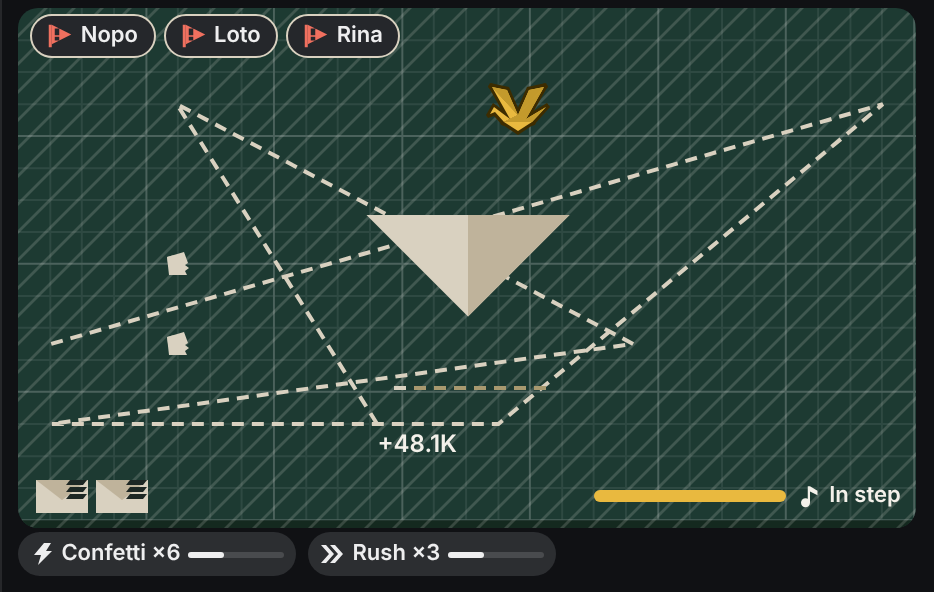
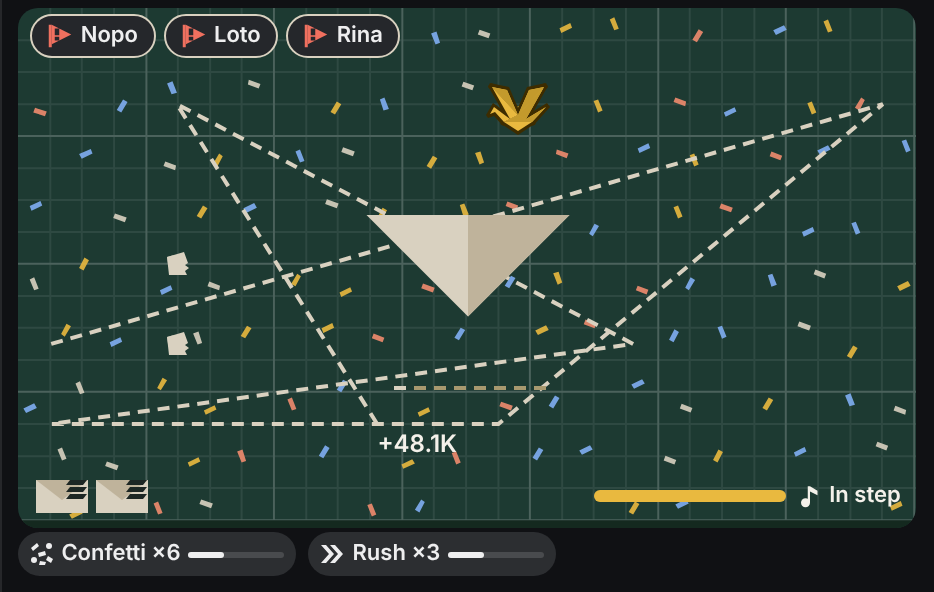
Verification round 6: phantom helpers, held notifications, crane hold, unreadable backups, waiting agents away, boat lane, Files min 160, Confetti visuals
- r6-01: a pane agent with no live terminals() entry is left out (no phantom addr#0 helper); DESIGN §5.1 states the rule
- r6-02: notifications are held, uncounted, while the window is hidden or inactive and sent once it is active again (DESIGN §11.2, RECIPE)
- r6-03: cranes() is held at MAX_SAFE_INTEGER and never loops on huge, infinite or NaN lifetimes
- r6-04: an unreadable backup is never rotated over; it is probed, kept aside as save.damaged-N.json once readable, and the fresh-start notice and Details row stay true
- r6-05: agents waiting for input earn nothing while away or as Elsewhere helpers; inv. 3 test follows the formula
- r6-06: the Paper Boat glides in its own lane, painted under the play pieces; the short mat dips under the band with eased top
- r6-07: Files' min is 160 (terminals 294 px at 1100x700 zoom 1.5 with Files); the chip offers Hide at the rail; Fold, Hide and Not now all answer the chip so it never chains; DESIGN §2.2-2.5, ARCHITECTURE B15, RECIPE and the commands.js fallback updated
- r6-08: the ribbon blocks lend unused room before the narrow hint is dropped (DESIGN §3.10)
- r6-09: Confetti draws paper flecks and a confetti seal; art generator, panel test, confetti.png hero shot and its captions updated
- r6-11: the win98 Files panel matches herdr (no change)
- r6-12/r6-13: the sim flags night-pot crossings; BALANCE.md refreshed from a fresh run
- r6-14: the crane-odds test checks the 40/35/25 split per seed
[…]

Changed region(s): [[0.031, 0.0304, 0.9936, 0.8818], [0.031, 0.9122, 0.0621, 0.973], [0.0621, 0.8514, 0.0931, 0.8818]]

diff --git a/mods/creaseworks/glue/views.js b/mods/creaseworks/glue/views.js
@@ -546,9 +546,9 @@ add("ribbon-window", { roster: { needs: 2, finished: 1, working: 5, resting: 4, 
 
 // Panel widths the shipped layout gives (ARCHITECTURE B15; DESIGN §2.4 states):
 // narrow = 1100 x 700 as shipped (226, Narrow), narrow-files = 1100 x 700 with
-// Files open (146: drawn as the rail, below 200), wide = Wide at 440, wide-2560 = 2560 x 1440 (636: no max).
+// Files open (152 since r6-07: drawn as the rail, below 200), wide = Wide at 440, wide-2560 = 2560 x 1440 (636: no max).
 add("narrow", { roster: { needs: 1, finished: 1, working: 6, resting: 4 }, size: { width: 226, height: 584 } }, async (v) => midGame(v));
-add("narrow-files", { roster: { needs: 1, finished: 1, working: 6, resting: 4 }, size: { width: 146, height: 584 } }, async (v) => midGame(v));
+add("narrow-files", { roster: { needs: 1, finished: 1, working: 6, resting: 4 }, size: { width: 152, height: 584 } }, async (v) => midGame(v));
 add("wide", { roster: { needs: 1, finished: 1, working: 6, resting: 4 }, size: { width: 440, height: 784 } }, async (v) => midGame(v));
 add("wide-2560", { roster: { needs: 2, finished: 2, working: 18, resting: 8 }, size: { width: 636, height: 1324 } }, async (v) => midGame(v));
 add("short", { roster: STD, size: { width: 320, height: 584 } }, async (v, tools) => {

diff --git a/mods/creaseworks/engine/prestige.js b/mods/creaseworks/engine/prestige.js
@@ -12,7 +12,7 @@ import { makeMap, newSpawn } from "./state.js";
  * and L = Lw (6e9) gives exactly 1,000.
  *
  * Review r6-03: the count is held at Number.MAX_SAFE_INTEGER (reached near
- * L 1.3e42), where c + 1 would equal c and the correction could never end,
+ * L 1.46e42), where c + 1 would equal c and the correction could never end,
  * and Infinity or NaN never loop either. The estimate is off by float
  * rounding only, so each correction is capped at CRANE_STEPS steps; every
  * call is a fixed handful of pow calls whatever L is (render 50 ms).

diff --git a/docs/screenshots/CAPTIONS.md b/docs/screenshots/CAPTIONS.md
@@ -11,7 +11,7 @@ Made by `node --import ./tools/node/register.mjs tools/shots/hero.mjs [--only na
 - hero-dark.png — Creaseworks inside herdr (graphite). In the active tab, a Claude Code agent needs you (it is waiting to edit away.js), a zsh shell has lint and 142 tests passing, and a Codex agent has finished the save-codec tests. On the right, you have just folded the paper: the "+2,179" rises beside it. A chain of seven waits with its next node ringed, and a gilded crane glides in. The Flock of 34 shows all four groups, and the ribbon runs along the bottom. Alt: "A dark herdr window: a sidebar of four spaces and a list of agents, three terminal panes (Claude Code asking to edit away.js, a zsh shell with lint and tests passing, Codex done with save codec tests), and the Creaseworks panel with a green cutting mat (numbered chain nodes, a gold crane, a half-folded paper crane with +2,179 beside it, four envelopes in the tray) above helper tiles grouped as Needs you 3, Finished 2, Working 15 and Resting 14, with a ribbon of 34 status marks under the terminals."
 - hero-light.png — The same moment in herdr's light Paper theme, used only as the light-mode source of the hero `<picture>`. Alt: "The same herdr window in a light theme: three terminals, the green Creaseworks mat with a +2,179 beside the folded paper, and the Flock of 34 in four groups."
 - flock.png — The Flock with 34 helpers, at a glance. Red dashed tiles need you. Blue checks have finished, each with an envelope waiting to be opened. Spinners are working and moons are resting. At this herd size the tiles drop their names, so each one shows its origami animal only. Alt: "The Flock tab with 34 unlabelled origami helper tiles in four groups: 3 needing you with red dashed outlines, 2 finished with blue checks and envelopes, 15 working with spinners and 14 resting with moons."
-- confetti.png — Confetti. You opened a Rush envelope and then a Confetti envelope from the tray (two envelopes are left), and you are clicking fast enough to be In step. Confetti hatches the mat and keeps dropping chains. You have just clicked the last node of one: its crease line runs across the mat, and its "+48.1K" sits where that last node was. A gilded crane glides in and two scraps wait to be picked up. Confetti ×6 and Rush ×3 run below the mat. Alt: "A hatched mat with dashed crease lines zigzagging across it, one ending at a +48.1K pop, a gold crane, two paper scraps, a folded paper triangle, two envelopes in the tray, the streak meter full and reading In step, and Confetti ×6 and Rush ×3 timers below."
+- confetti.png — Confetti. You opened a Rush envelope and then a Confetti envelope from the tray (two envelopes are left), and you are clicking fast enough to be In step. Confetti scatters paper flecks over the mat and keeps dropping chains. You have just clicked the last node of one: its crease line runs across the mat, and its "+48.1K" sits where that last node was. A gilded crane glides in and two scraps wait to be picked up. Confetti ×6 and Rush ×3 run below the mat. Alt: "A mat scattered with confetti flecks, with dashed crease lines zigzagging across it, one ending at a +48.1K pop, a gold crane, two paper scraps, a folded paper triangle, two envelopes in the tray, the streak meter full and reading In step, and Confetti ×6 and Rush ×3 timers below."
 - shop.png — The Shop's Works. Workshops are owned in the dozens with their rates, and the next ones are within reach. The Washi Vat is still out of reach ("in 29m 33s"). The crop ends there: the tiers after it stay hidden until you own the one above. Alt: "The Shop tab with segments Works, Tools, Folk, Charms, Curios and Auto, a ×1 / ×10 / Max buy switch, and Paper Stack ×40, Bone Folder ×30, Scissor Stand ×22, Glue Pot ×14 and Fold Bench ×6 with lit buy buttons, then a greyed Washi Vat at 5.90M."
 - string.png — String the Thousand, later in the same game: the String holds 1,000 of 1,000 cranes and the wish is ready. Cranes keep coming past 1,000, and every hundred more adds one more Wish to this wish. That is why a "Next crane" count still shows under a full String, and why this wish is ready at +13 Wishes. The grid is the mod's own: a thousand small strung cranes, drawn alike. Alt: "The String tab: The String, 1,000 / 1,000 cranes, a dark green card filled with rows of small strung paper cranes, the lines Next crane in 33.9M folds · lifetime 49.3B and Ready: +13 Wishes, and a Make the wish (+13 Wishes) button."
 - away.png — Back after seven hours. The while-you-were-away card sums up the time away: +15.1M folds, the envelopes waiting, who needs you, who rested, the best helper and what you can now afford. The header still reads 1.33M because the card credits the folds when you click Collect. The long rows end in an ellipsis because the card is at most 304 px wide at any panel width. Alt: "A card over the panel titled While you were away, 7 h: +15.1M folds from workshops and helpers, 9 envelopes waiting, 3 helpers need you with an Open button, 19 helpers rested fully, best helper Kori the crane with 4 tasks, things you can afford, and a Collect button."

diff --git a/docs/ARCHITECTURE.md b/docs/ARCHITECTURE.md
@@ -1097,7 +1097,7 @@ wishes, another writer's observation, `failNextWrite` / `raceNextWrite` / `exter
 banners, a wall-clock step back for `clock`). Where luck or hours decide a state, setup moves the
 one engine field that decides it (spawn clock due, a storm's end time, banked folds) and lets the
 engine do the rest. Panel-width views follow the shipped layout (B15): `narrow` 226×584 (1100×700),
-`narrow-files` 146×584 (1100×700 with Files open), `wide` 440×784, `wide-2560` 636×1324 (2560×1440).
+`narrow-files` 152×584 (1100×700 with Files open), `wide` 440×784, `wide-2560` 636×1324 (2560×1440).
 Ribbon views are `ribbon-<n>-<1100|1440>`; `flock-12` (block `cw-panel`) and
 `ribbon-window` (block `cw-ribbon`) fill the whole-window shots; `windowScenario` gives the
 chrome the same 12 agents. `garlands` is 320×1160 (`GARLANDS_SIZE`): at 784 the String tab ends at
@@ -1186,7 +1186,7 @@ the Perks heading and the garland stripes it is named for were below the fold (r
   is the **Narrow** state (mat at full width, Flock dense, Shop icons only) and so is 1440×900
   with Files open; big windows are Wide with no cap (the old max was 560; 2560 gives 636). The
   terminals gain what the game gives up (1100×700: 581 instead of 488). Shots: `narrow` 226,
-  `narrow-files` 146 (152 since r6-07), `wide-2560` 636 and `window-1920x1080-*` (456) cover these widths.
+  `narrow-files` 152 (146 before r6-07), `wide-2560` 636 and `window-1920x1080-*` (456) cover these widths.
 * **Past zoom 1.5: Files is clipped, never the game (r2-15).** herdr's zoom runs 0.5–3.0 in 0.1
   steps (settings.rs), `render_node` makes every container `overflow_hidden` (src/window.rs
   ~4624) and a row never wraps, so once the mins do not fit, the row's END is cut. With Files

diff --git a/README.md b/README.md
@@ -11,7 +11,7 @@ A paper workshop on the corner of your desk, built for [herdr](https://herdr.dev
 
 | | |
 |---|---|
-| ![The Flock tab with 34 origami helper tiles in four groups: 3 needing you with red dashed outlines, 2 finished with blue checks and envelopes, 15 working with spinners and 14 resting with moons.](docs/screenshots/flock.png) | ![A hatched mat with dashed crease lines zigzagging across it, one ending at a +48.1K pop, a gold crane, two paper scraps, the streak meter reading In step, and Confetti ×6 and Rush ×3 timers.](docs/screenshots/confetti.png) |
+| ![The Flock tab with 34 origami helper tiles in four groups: 3 needing you with red dashed outlines, 2 finished with blue checks and envelopes, 15 working with spinners and 14 resting with moons.](docs/screenshots/flock.png) | ![A mat scattered with confetti flecks, with dashed crease lines zigzagging across it, one ending at a +48.1K pop, a gold crane, two paper scraps, the streak meter reading In step, and Confetti ×6 and Rush ×3 timers.](docs/screenshots/confetti.png) |
 | **Every agent is a helper.** Needs you, finished, working or resting, readable at a glance. | **Clicking stays fun.** Open a Rush and a Confetti, chain the nodes, catch the gilded crane. |
 | ![The Shop tab: Paper Stack, Bone Folder, Scissor Stand, Glue Pot and Fold Bench with buy buttons, and a greyed Washi Vat.](docs/screenshots/shop.png) | ![The String tab: 1,000 / 1,000 cranes strung on a green card and a Make the wish (+13 Wishes) button.](docs/screenshots/string.png) |
 | **Spend your folds** on workshops, tools, folk, charms, curios and automations. | **String the Thousand.** Trade 1,000 cranes for Wishes, a permanent bonus. |

diff --git a/docs/DESIGN.md b/docs/DESIGN.md
@@ -921,7 +921,10 @@ wall time, `visible`/`active`/`matShown` flags, hand-hit timestamps and the loca
   terminal whose `parent` chain reaches a pane agent within 32 hops,
   `{addr, created, status, raw, turn, parent, pane, title, paneName, space, tab}`. `agents()` and
   `terminals()` are joined by `address` (`created_ms` and `turn` come from `terminals()`; a missing
-  `created_ms` is treated as 0). Maps are `Map`s or `Object.create(null)`.
+  `created_ms` is treated as 0). A pane agent with no live `terminals()` entry is left out, and its
+  sub-agents wait with it (review r6-01): herdr builds `agents()` from its pane model without
+  checking liveness, so without this it joined as a phantom helper `addr#0` and sent the real one
+  to the Album. Maps are `Map`s or `Object.create(null)`.
 * An `observe` action is emitted only when something changed (status, turn, title, set of
   helpers), so `pending` stays short.
 * **Helper id** = FNV-1a 32-bit hex of `address + "#" + created_ms`. This deliberately leaves out
